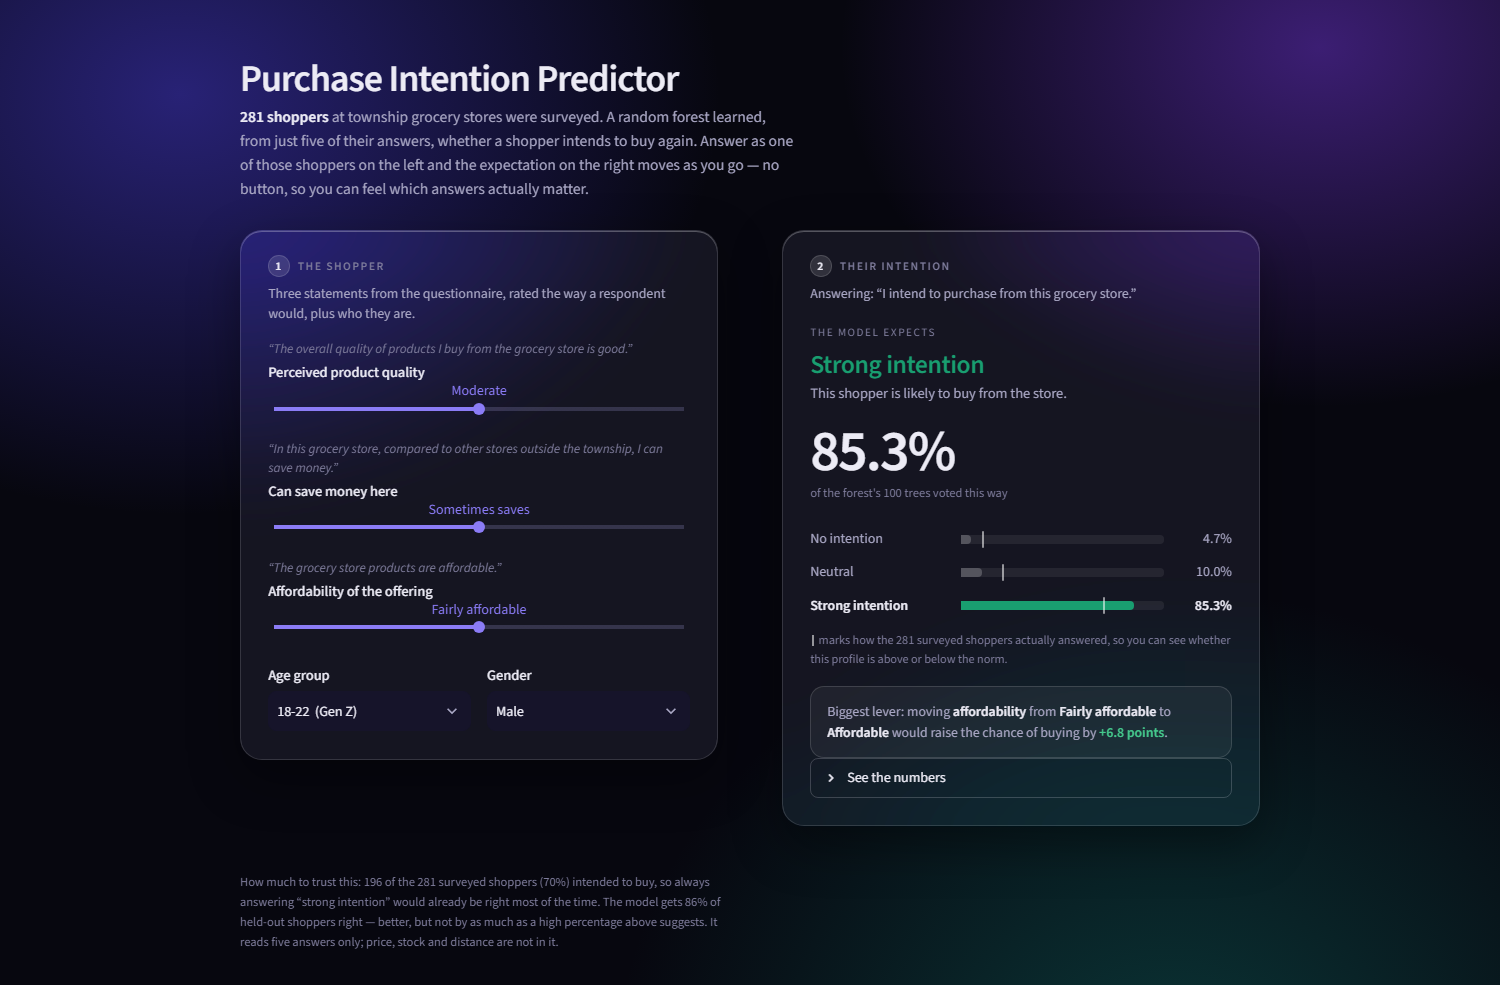
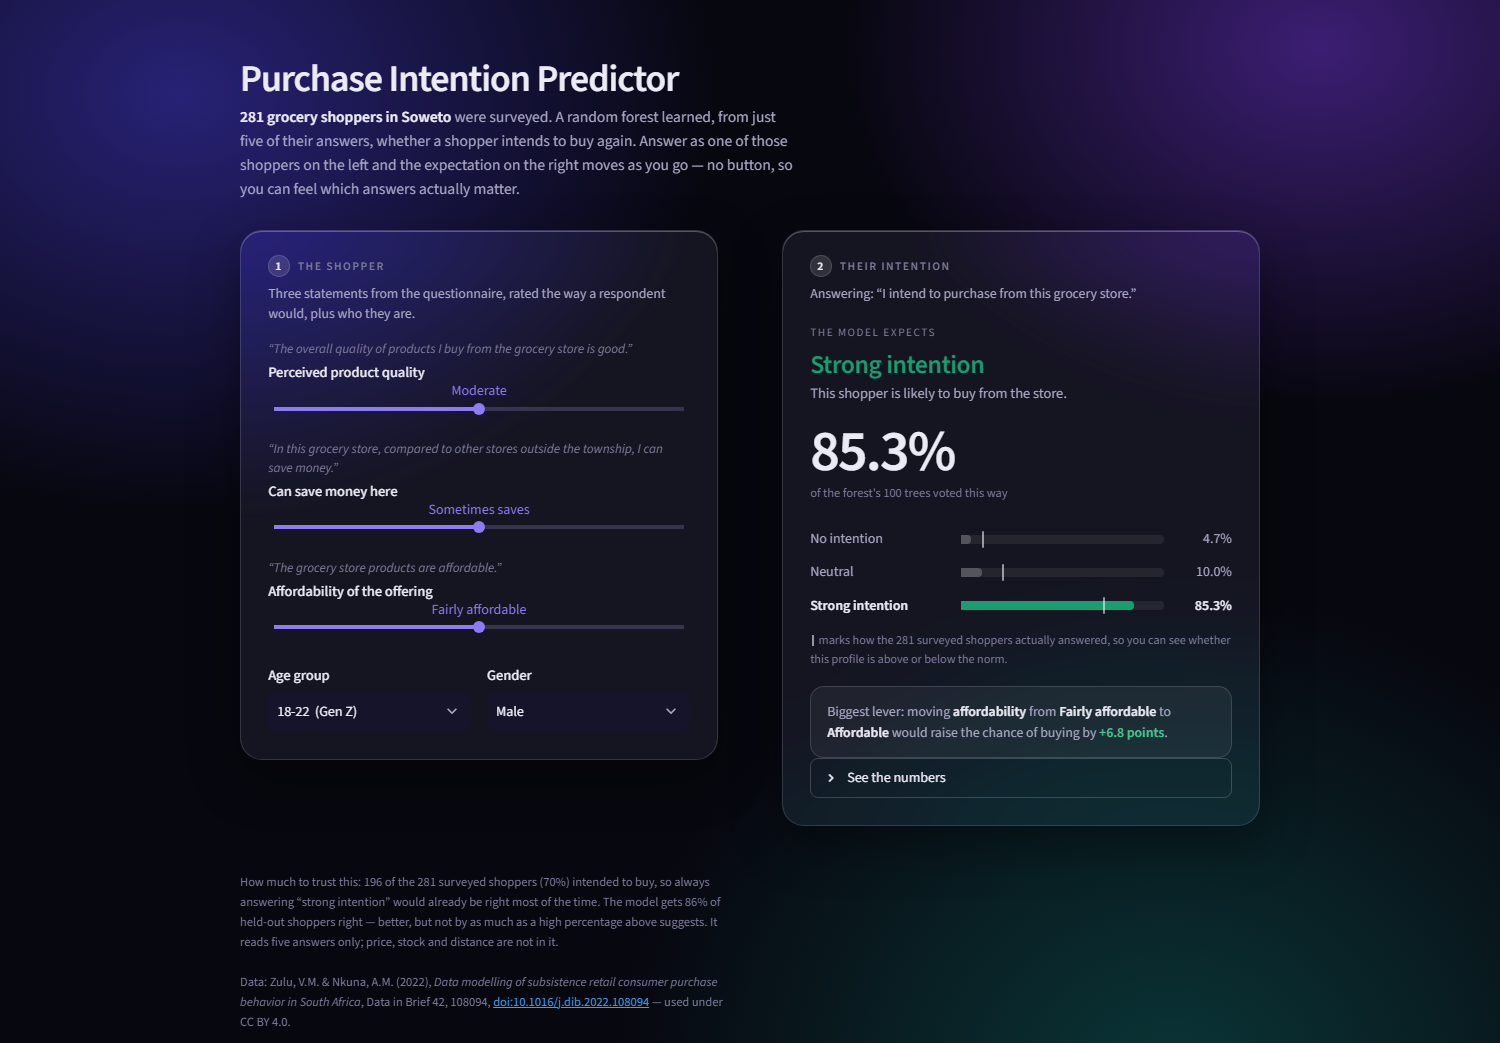
Correct the data provenance and credit the source study
The data is not university research collected for this project, as the README
previously implied. It is published open data: the companion dataset to Zulu &
Nkuna (2022), Data in Brief 42, 108094, released on Mendeley Data under
CC BY 4.0.

That changes three things:

- Reuse is permitted with attribution, so the earlier "please ask first"
  gating and the re-identification warning are wrong and are removed. The
  dataset was cleared and published by its authors; second-guessing that here
  was not our call to make.
- CC BY obliges attribution wherever the data is used, so the citation now
  appears in the app itself, not only in the README.
- The survey location is documented as Soweto, so the app names it instead of
  saying "township grocery stores" for want of a source.

Also document the study's constructs behind the column prefixes (E empathy,
C convenience, PS price sensitivity, PE physical environment, PPQ perceived
product quality, CT customer trust, PV perceived value, PI purchase intention),
note the project as 2024 coursework, and refresh the screenshot.

Changed region(s): [[0.1533, 0.0609, 0.5213, 0.7614], [0.5213, 0.2132, 0.8587, 0.7919], [0.1533, 0.8223, 0.4907, 1.0]]

diff --git a/app.py b/app.py
@@ -445,10 +445,10 @@ def result_html(predicted_class, probabilities):
 st.markdown('<div class="pi-title">Purchase Intention Predictor</div>', unsafe_allow_html=True)
 st.markdown(
     "<div class='pi-sub'>"
-    f"<b>{SURVEY_N} shoppers</b> at township grocery stores were surveyed. A random "
-    "forest learned, from just five of their answers, whether a shopper intends to buy "
-    "again. Answer as one of those shoppers on the left and the expectation on the "
-    "right moves as you go — no button, so you can feel which answers actually matter."
+    f"<b>{SURVEY_N} grocery shoppers in Soweto</b> were surveyed. A random forest "
+    "learned, from just five of their answers, whether a shopper intends to buy again. "
+    "Answer as one of those shoppers on the left and the expectation on the right moves "
+    "as you go — no button, so you can feel which answers actually matter."
     "</div>",
     unsafe_allow_html=True,
 )
@@ -582,6 +582,11 @@ st.markdown(
     "intention” would already be right most of the time. The model gets 86% of "
     "held-out shoppers right — better, but not by as much as a high percentage above "
     "suggests. It reads five answers only; price, stock and distance are not in it."
+    "<br><br>"
+    "Data: Zulu, V.M. &amp; Nkuna, A.M. (2022), <i>Data modelling of subsistence retail "
+    "consumer purchase behavior in South Africa</i>, Data in Brief 42, 108094, "
+    '<a href="https://doi.org/10.1016/j.dib.2022.108094" target="_blank" '
+    'rel="noopener">doi:10.1016/j.dib.2022.108094</a> — used under CC BY 4.0.'
     "</div>",
     unsafe_allow_html=True,
 )

diff --git a/README.md b/README.md
@@ -1,15 +1,15 @@
 # Purchase Intention Predictor
 
 An interactive Streamlit app that predicts whether a shopper intends to buy from their
-local township grocery store, from five answers on a consumer survey — and, more
-importantly, tries to explain itself while it does it.
+local grocery store in Soweto, from five answers on a published consumer survey — and,
+more importantly, tries to explain itself while it does it.
 
 ![The app: a customer profile panel on the left, prediction panel on the right](docs/screenshot.png)
 
 ## What it does
 
-A Random Forest, trained on a survey of 281 subsistence-retail shoppers, reads five
-answers and estimates purchase intention as one of three outcomes: **no intention**,
+A Random Forest, trained on a published survey of 281 subsistence-retail shoppers in
+Soweto, reads five answers and estimates purchase intention as one of three outcomes: **no intention**,
 **neutral**, or **strong intention**.
 
 The interface is built so a visitor understands what is happening without reading this
@@ -121,15 +121,32 @@ Custom CSS against Streamlit internals is version-fragile, which is why `require
 pins exact versions. `random_forest_model.pkl` is pickled with scikit-learn 1.9.0 and
 the app warns at startup if a different version is installed.
 
-## Data
+## Data source
 
-The survey data behind this project was collected as part of academic research at the
-University of the Free State. It contains no names, contact details, dates or
-locations — every column is a numeric coded response.
+The survey data is published open data, not collected for this project. It is the
+companion dataset to:
 
-If you intend to reuse the data rather than the code, please ask first. Anonymity in
-a small survey is not absolute: 39 of the 281 respondents (14%) are unique on the
-combination of gender, age, marital status, employment status and education alone.
+> Zulu, V.M. & Nkuna, A.M. (2022). *Data modelling of subsistence retail consumer
+> purchase behavior in South Africa*. **Data in Brief**, 42, 108094.
+> [doi:10.1016/j.dib.2022.108094](https://doi.org/10.1016/j.dib.2022.108094)
+
+Dataset: *Subsistence Retail Consumer Data*, Mendeley Data,
+[doi:10.17632/5z37z85jck.1](https://doi.org/10.17632/5z37z85jck.1) — **CC BY 4.0**,
+so it is free to reuse with attribution.
+
+281 usable responses (94% of 300 approached) were collected by self-administered
+questionnaire from grocery shoppers in Soweto, on a five-point Likert scale. The
+original study used PLS-SEM; this project is an independent reuse of the same data
+for supervised classification.
+
+The column prefixes are the study's constructs:
+
+| Prefix | Construct | | Prefix | Construct |
+| --- | --- | --- | --- | --- |
+| `E` | Empathy | | `PPQ` | Perceived Product Quality |
+| `C` | Convenience | | `CT` | Customer Trust |
+| `PS` | Price Sensitivity | | `PV` | Perceived Value |
+| `PE` | Physical Environment | | `PI` | Purchase Intention |
 
 ## Licence
 
@@ -138,6 +155,8 @@ the survey data.
 
 ## Credits
 
-Built by Luyanda Mdhluli. The underlying study and coursework were supervised within
-the University of the Free State; the original repository lives under the
-[ufs-za](https://github.com/ufs-za) organisation.
+Built by Luyanda Mdhluli as a university project in 2024, and tidied up since. The
+original repository lives under the [ufs-za](https://github.com/ufs-za) organisation.
+
+The data is the work of Valencia Melissa Zulu and Andriaan Mpho Nkuna (School of
+Business Sciences, University of the Witwatersrand), used here under CC BY 4.0.
